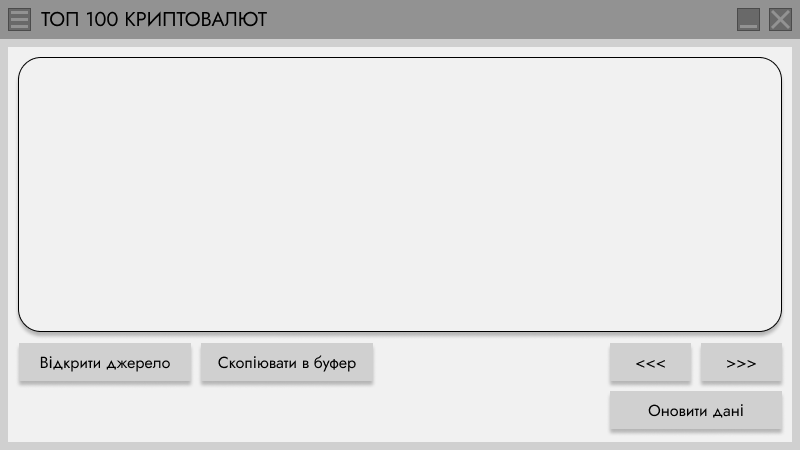
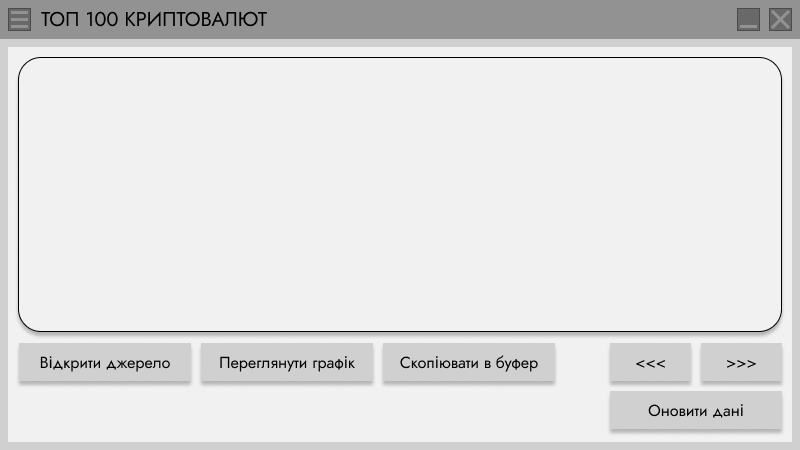
Added button ShowChart

Changed region(s): [[0.4688, 0.7467, 0.7188, 0.8711], [0.2812, 0.7778, 0.4375, 0.84]]

diff --git a/Views/TopListWindow.xaml b/Views/TopListWindow.xaml
@@ -33,7 +33,8 @@
         <Label x:Name="lbDateTime" Content="Інформацію оновлено станом на: " Margin="20,391,190,22" FontSize="20"/>
 
         <Button x:Name="btnShowSource" Opacity="0" Margin="19,343,609,68" Click="btnShowSource_Click" />
-        <Button x:Name="btnCopy" Opacity="0" Margin="201,343,427,68" Click="btnCopy_Click" />
+        <Button x:Name="btnShowChart" Opacity="0" Margin="201,343,427,68" Click="btnShowChart_Click" />
+        <Button x:Name="btnCopy" Opacity="0" Margin="383,343,245,68" Click="btnCopy_Click" />
 
         <Button x:Name="btnBackward" Opacity="0" Margin="610,343,110,68" Click="btnBackward_Click"/>
         <Button x:Name="btnForward" Opacity="0" Margin="701,343,19,68" Click="btnForward_Click"/>

diff --git a/Views/TopListWindow.xaml.cs b/Views/TopListWindow.xaml.cs
@@ -87,6 +87,12 @@ namespace CoinView.Views
 				Arguments = $"/c start {currencyRoot.Data[index].Explorer}"
 			});
 		}
+
+		private void btnShowChart_Click(object sender, RoutedEventArgs e)
+		{
+
+		}
+
 		private void btnCopy_Click(object sender, RoutedEventArgs e)
 		{
 			Clipboard.SetText(CopyByIndex(index));
@@ -156,5 +162,5 @@ namespace CoinView.Views
 				$"${currencyRoot.Data[index].Vwap24Hr} ";
 			return textToCopy;
 		}
-	}
+    }
 }
